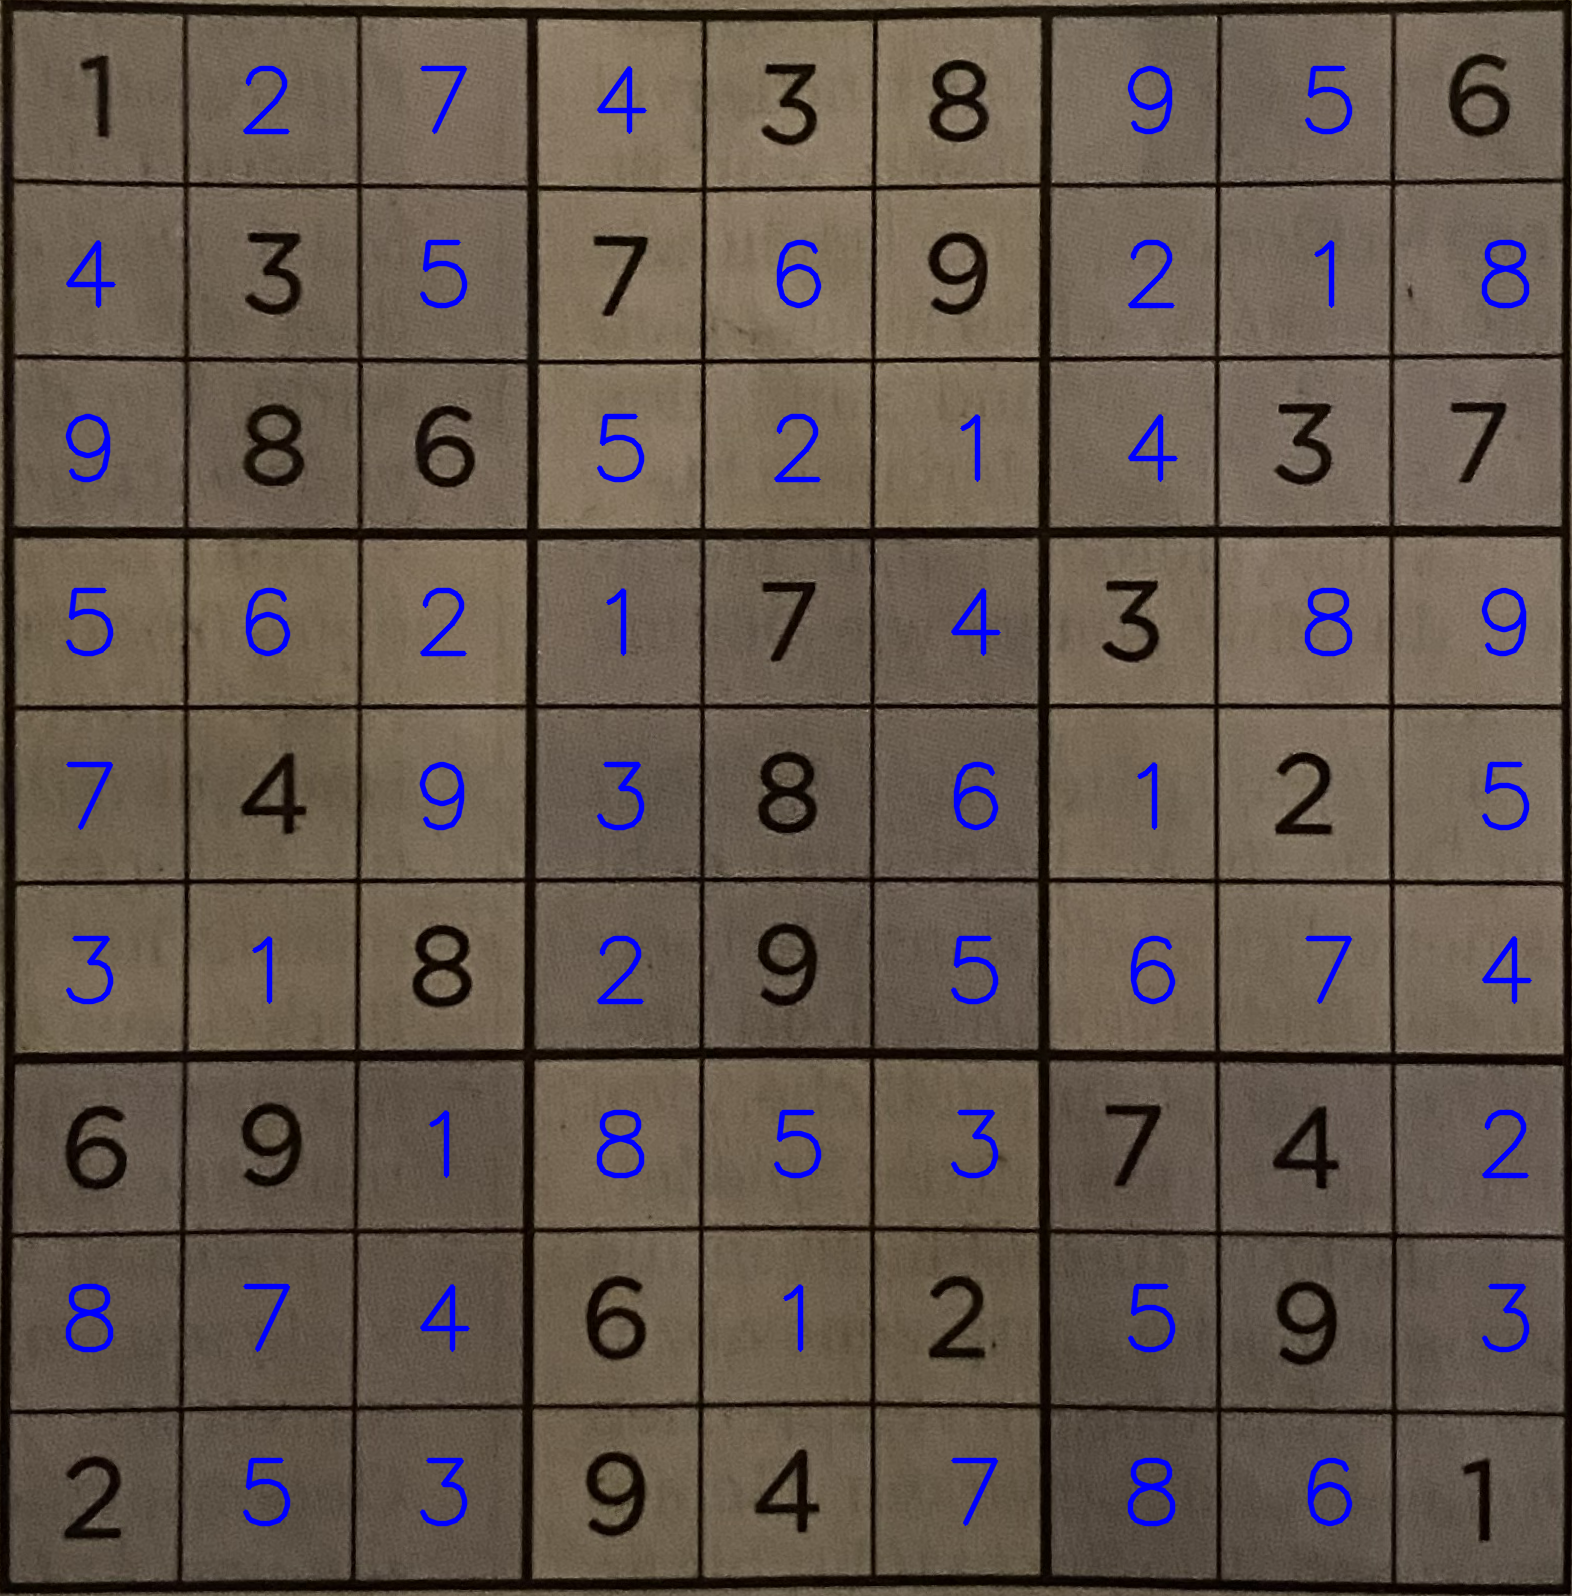
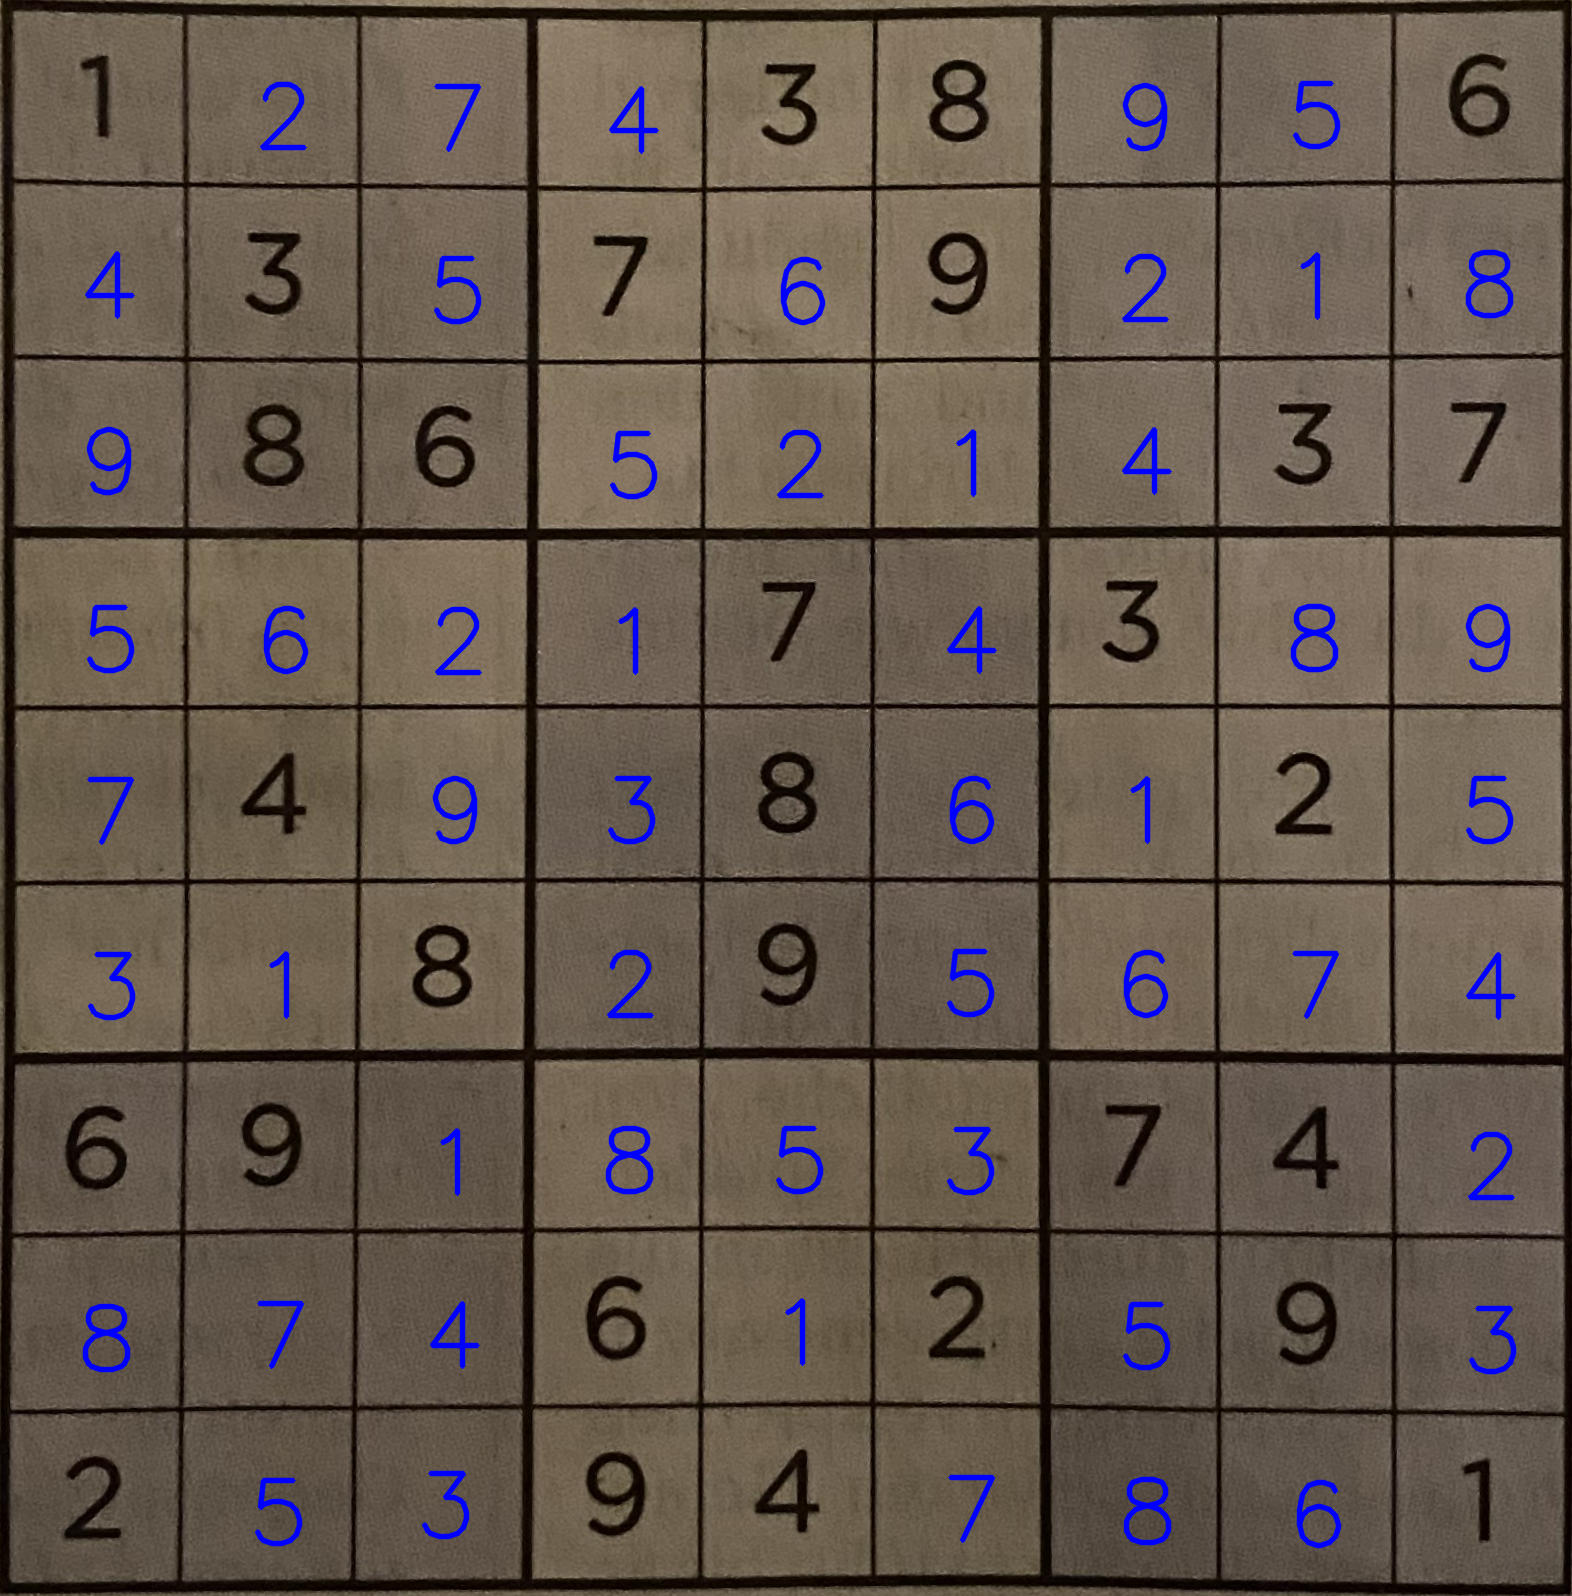
integrated new output method to consider original coordinates

diff --git a/grid_elements.py b/grid_elements.py
@@ -1,7 +1,6 @@
 import cv2
 import numpy as np
 import image_manipulation as im
-import imutils
 
 def get_contour_precedence(contour):
     origin = cv2.boundingRect(contour)
@@ -129,46 +128,28 @@ def extract_grid_elements(image, name='output'):
 
     if not grid_identified:
         print('another approach necessary, squares: {}'.format(len(squares)))
-        return
-
-    # font = cv2.FONT_HERSHEY_SIMPLEX 
-    # org = (50, 50) 
-    # fontScale = 1
-    # color = (255, 0, 0) 
-    # thickness = 2
-    # ##### debug help
-
-    #print("medium-sized squares: {}, small-sized squares: {}".format(len(medium_squares), len(small_squares)))
+        return None, None
 
     idy = 0
     idx = 1
     numbers = []
     grid_columns = []
+    coordiantes_line = []
+    coordinates = []
     for i, c in enumerate(contours):
         if i in squares:
             x, y, w, h = cv2.boundingRect(c)
             idy += 1
-            #peri = cv2.arcLength(c, True)
-            #approx = cv2.approxPolyDP(c, 0.015 * peri, True)
-            #cv2.drawContours(image, [approx], -1, (0,255,0), 1)
-
-            # Using cv2.putText() method 
-            #image = cv2.putText(image, str(i)+': '+str(idy)+'x'+str(idx), (x+50, y+50), font, fontScale, color, thickness, cv2.LINE_AA) 
-
+            coordiantes_line.append([x, y, w, h])
             new_img = image[y:y+h, x:x+w]
             grid_columns.append(new_img)
-            #numbers[idx].append(new_img)
-            #cv2.imwrite('./debug/output/'+str(idy)+'x'+str(idx)+ '.png', new_img)
             if idy == 9:
                 idy = 0
                 numbers.insert(idx, grid_columns)
+                coordinates.insert(idx, coordiantes_line)
                 idx += 1
                 grid_columns = []
+                coordiantes_line = []
 
-    # if image is None:
-    #     print('Error in processing.')
-    # else:
-    #     cv2.imwrite('./debug/output/'+name+'.png', image)
-
-    return numbers
+    return numbers, coordinates
         

diff --git a/image_manipulation.py b/image_manipulation.py
@@ -18,7 +18,7 @@ def identify_edges(image):
 def findContours(image):
     return cv2.findContours(image.copy(), cv2.RETR_TREE, cv2.CHAIN_APPROX_SIMPLE)
 
-def output_sudoku_solution(image, orig_sudoku, solved_sudoku):
+def output_sudoku_solution(image, coordinates, orig_sudoku, solved_sudoku):
     orig_array = np.array(orig_sudoku)
     solved_array = np.array(solved_sudoku)
 
@@ -29,20 +29,22 @@ def output_sudoku_solution(image, orig_sudoku, solved_sudoku):
     color = (255, 0, 0) 
     thickness = 3
 
-    x_steps = int(image.shape[0] // 9)
-    y_steps = int(image.shape[1] // 9)
+    # x_steps = int(image.shape[0] // 9)
+    # y_steps = int(image.shape[1] // 9)
 
-    x_pos = 0
-    y_pos = y_steps
+    # x_pos = 0
+    # y_pos = y_steps
 
-    for line in output_array:
-        for element in line:
-            x_pos += x_steps
-            if x_pos > image.shape[0]:
-                x_pos = x_steps
-                y_pos += y_steps
+    for line_no, line in enumerate(output_array):
+        for element_no, element in enumerate(line):
+            # x_pos += x_steps
+            # if x_pos > image.shape[0]:
+            #     x_pos = x_steps
+            #     y_pos += y_steps
 
             if element != 0:
-                image = cv2.putText(image, str(element), (x_pos - int(x_steps-x_steps//3), y_pos - int(y_steps//4)), font, fontScale, color, thickness, cv2.LINE_AA)
+                # image = cv2.putText(image, str(element), (x_pos - int(x_steps-x_steps//3), y_pos - int(y_steps//4)), font, fontScale, color, thickness, cv2.LINE_AA)
+                textSize = cv2.getTextSize(str(element), font, fontScale, thickness)
+                image = cv2.putText(image, str(element), (coordinates[line_no][element_no][0]+textSize[0][0], coordinates[line_no][element_no][1]+(textSize[0][1]*2)), font, fontScale, color, thickness, cv2.LINE_AA)
     
     return image 

diff --git a/main.py b/main.py
@@ -11,7 +11,7 @@ def solve(name, filename, model, result):
     print("testname: {}".format(name))
     image = cv2.imread(filename)
     major_grid = mg.extract_major_grid(image)
-    squares_images = ge.extract_grid_elements(major_grid, name)
+    squares_images, square_coordinates = ge.extract_grid_elements(major_grid, name)
 
     if squares_images is None:
         result[name] = 'Could not extract Sudoku grid from image.'
@@ -52,7 +52,7 @@ def solve(name, filename, model, result):
     result[name] = '{}-Sudoku succesful solved: {}'.format(name, imported_sudoku != grid_solved)
     print(result[name])
     if imported_sudoku != grid_solved:
-        output = im.output_sudoku_solution(major_grid, imported_sudoku, grid_solved)
+        output = im.output_sudoku_solution(major_grid, square_coordinates, imported_sudoku, grid_solved)
         cv2.imwrite('./output/'+name+'_output.png', output)
     print('===')
     
